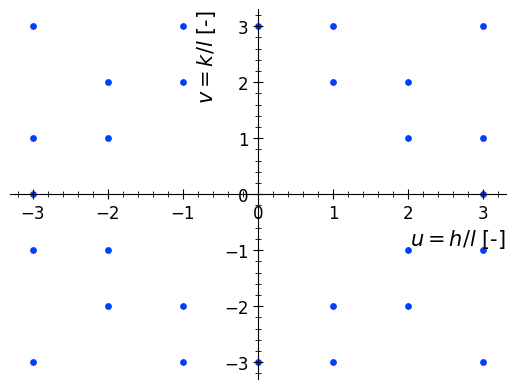
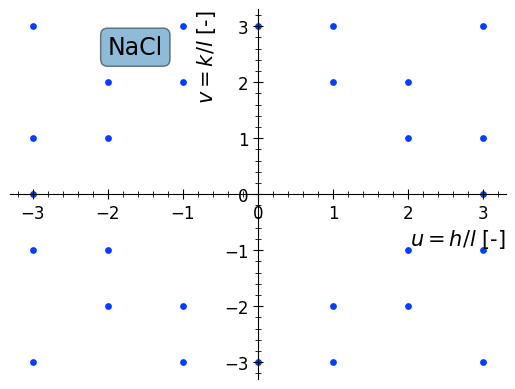
Add name text in gnomo

Changed region(s): [[0.1864, 0.0617, 0.3417, 0.1851]]

diff --git a/analyse_Laue.py b/analyse_Laue.py
@@ -499,6 +499,8 @@ def gnomonique(laue_data, name):
     ax.spines['bottom'].set_position('zero')
     ax.spines['right'].set_color('none')
     ax.spines['top'].set_color('none')
+    props = dict(boxstyle='round')
+    plt.text(-2, 2.5, name, fontsize=17, bbox=props)
     plt.xlabel(r'$u = h/l$ [-]', fontsize=15, loc='right')
     plt.ylabel(r'$v = k/l$ [-]', fontsize=15, loc='top')
 
@@ -622,9 +624,9 @@ if __name__ == "__main__":
     #draw_points(nacl_img, nacl_name, centroids_nacl, laue_dict_nacl, center_nacl)
     #draw_points(si_img, si_name, centroids_si, laue_dict_si, center_si)
 
-    #gnomonique(laue_dict_lif, lif_name)
-    #gnomonique(laue_dict_nacl, nacl_name)
-    #gnomonique(laue_dict_si, si_name)
+    gnomonique(laue_dict_lif, lif_name)
+    gnomonique(laue_dict_nacl, nacl_name)
+    gnomonique(laue_dict_si, si_name)
 
     a0_exp = plot_a0(laue_dict_lif, laue_dict_nacl, laue_dict_si, exp=True)
     a0_theo = plot_a0(laue_dict_lif, laue_dict_nacl, laue_dict_si, exp=False)
